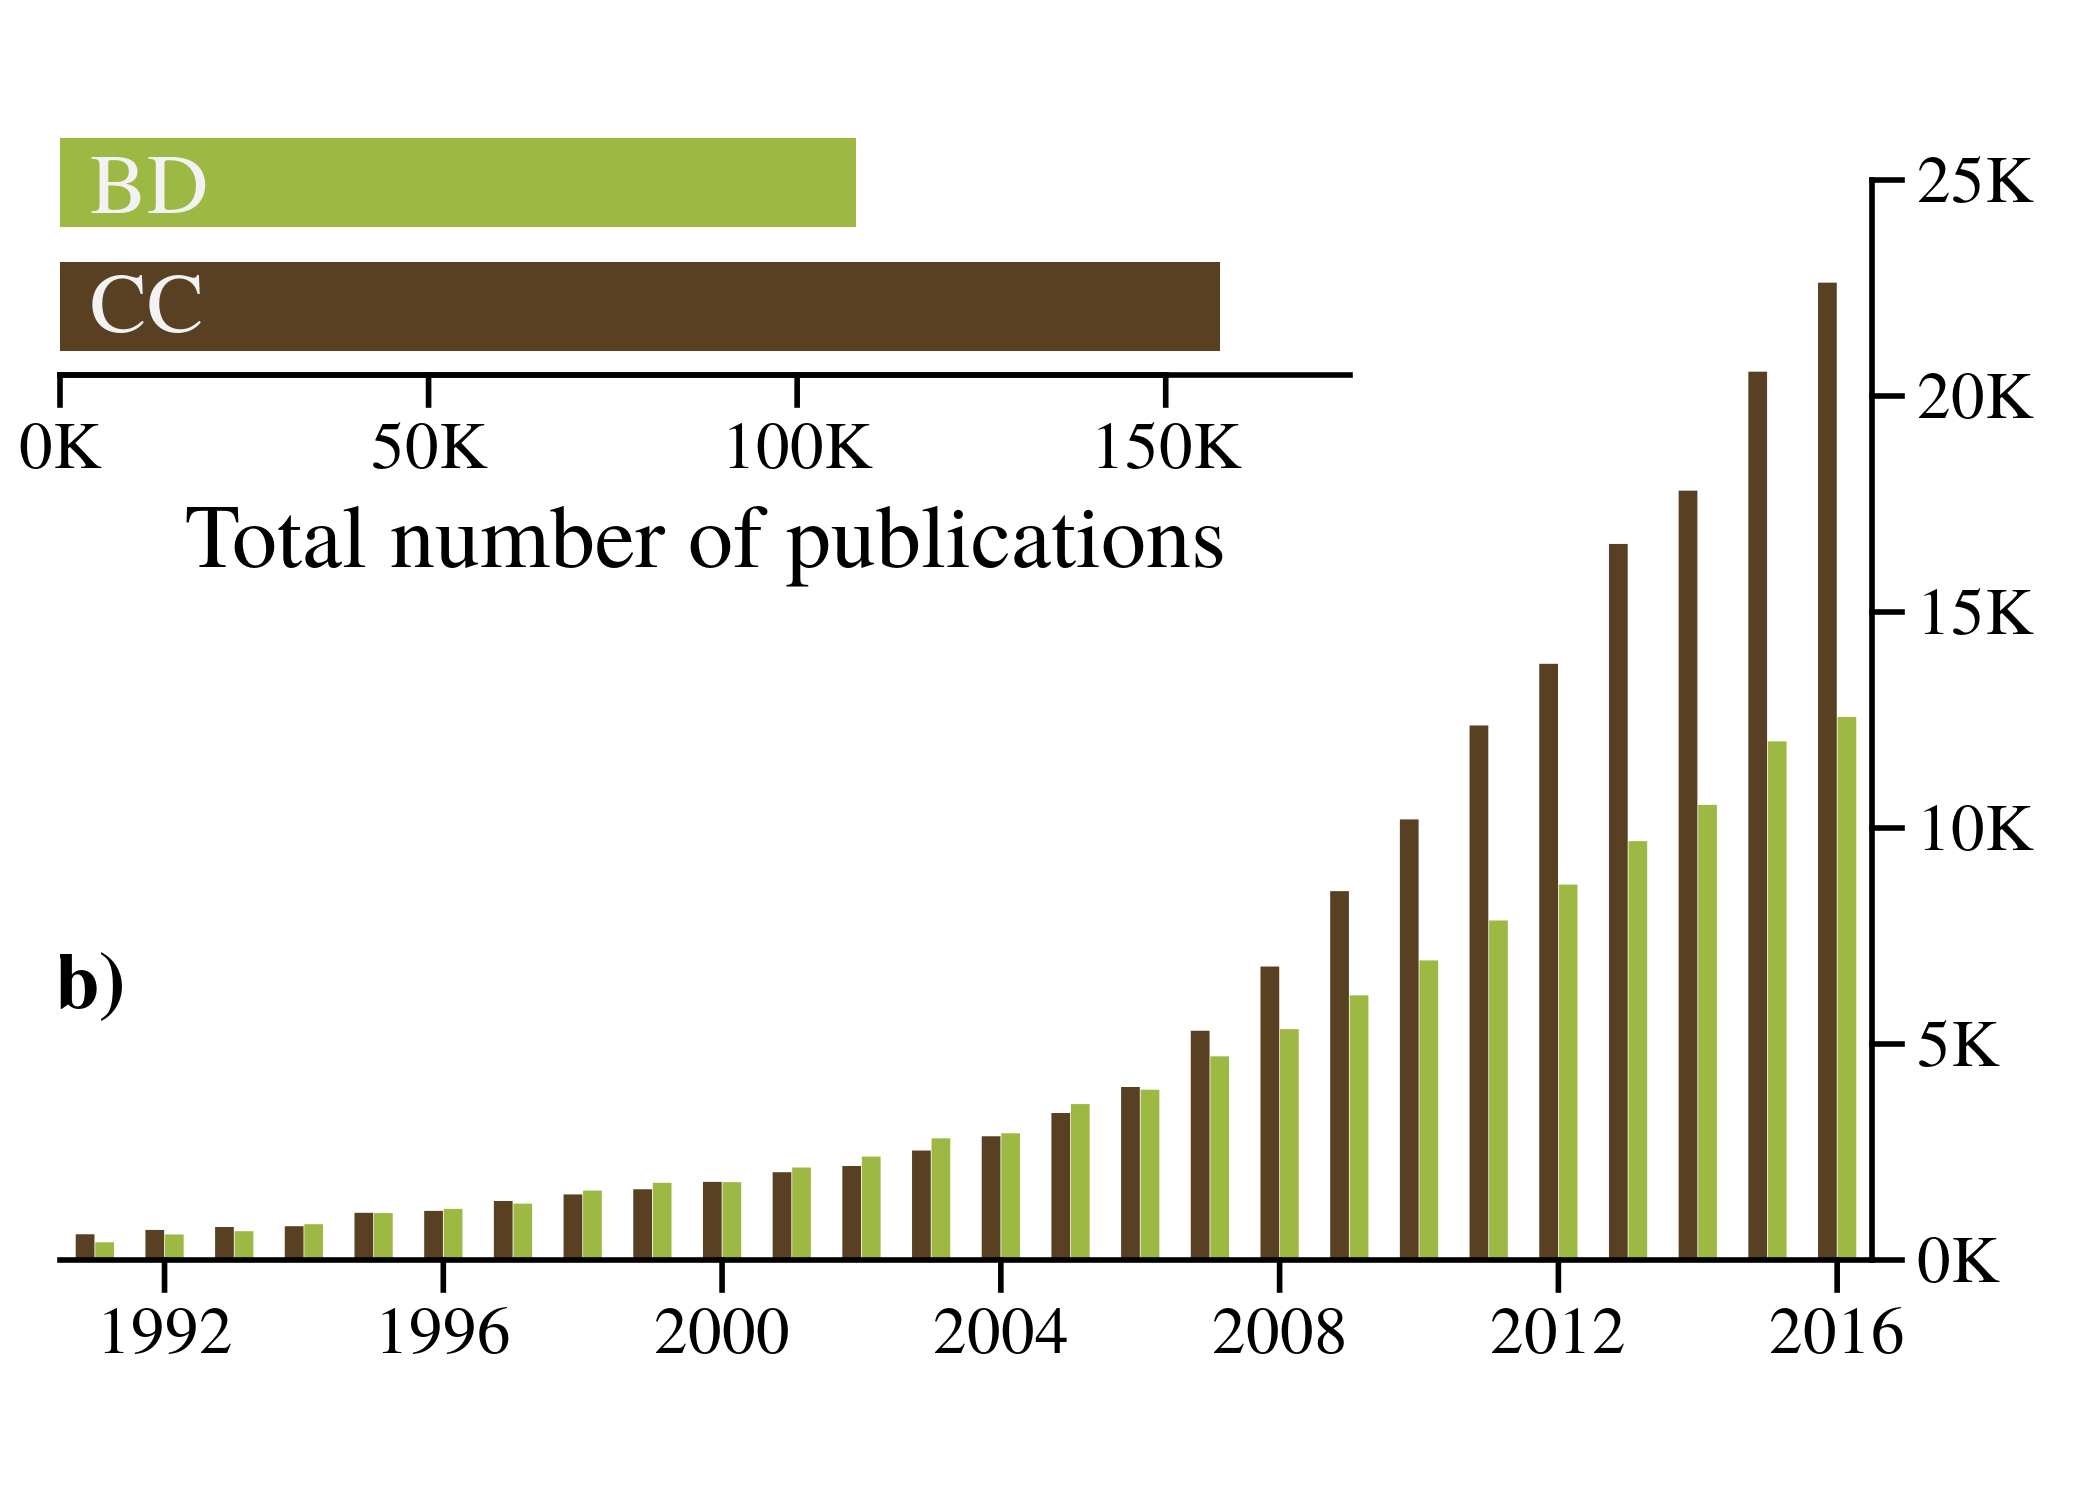
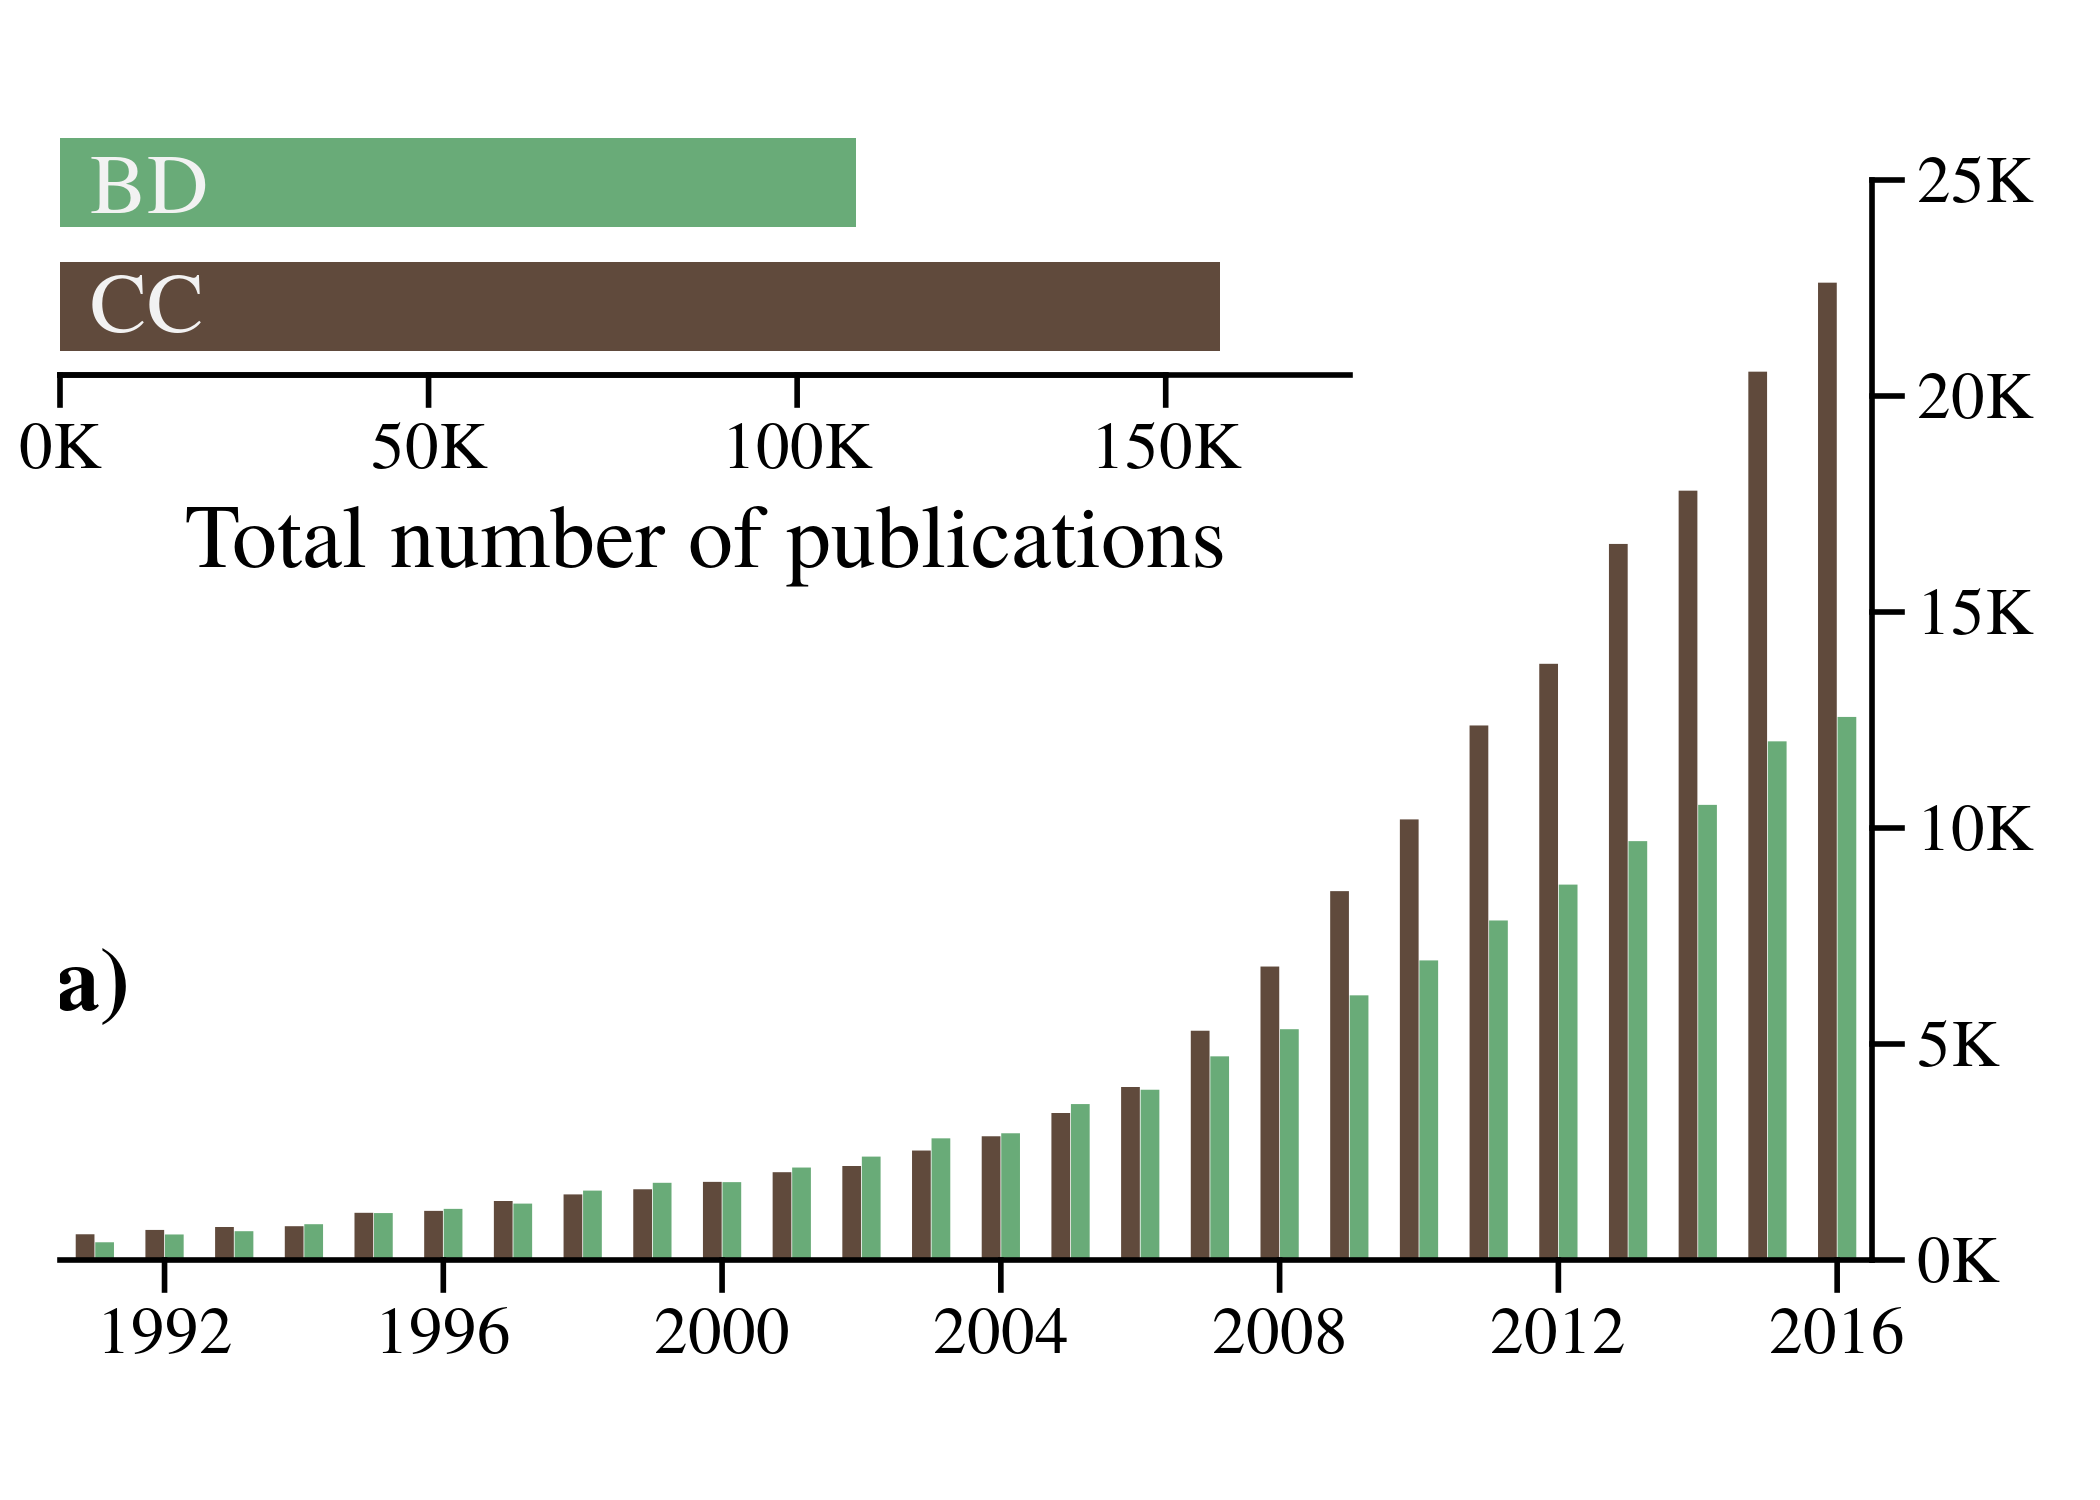
readme reviewed

Changed region(s): [[0.031, 0.184, 0.8976, 0.8587], [0.031, 0.092, 0.5881, 0.2453], [0.031, 0.644, 0.0619, 0.6747]]

diff --git a/README.md b/README.md
@@ -8,12 +8,12 @@ biodiversity coverage in the media* by Legagneux *et al.* DOI: 2BAdded.
 
 We have used a standard R package to:
 
-  1- efficiently assess the quality of our code (here we simply use `R CMD check`);
+  1- efficiently assess the quality of our code (here we simply used `R CMD check`);
 
-  2- readily share our code (see installation section).
+  2- readily share our code (see installation section below).
 
 We however acknowledge that despite the form of a standard R package, the code
-presented is more a organized script that a package (*i.e.* functions included
+presented is more a organized script than a package (*i.e.* functions included
 are not general).
 
 ## Current status
@@ -22,7 +22,7 @@ are not general).
 [![Build status](https://ci.appveyor.com/api/projects/status/qh4ntjow6tcho9oh/branch/master?svg=true)](https://ci.appveyor.com/project/KevCaz/burninghouse/branch/master)
 
 
-## Abstract of the paper
+## Abstract of the article
 
 > Scientists, policy makers and journalists are three key, interconnected players involved in prioritizing and implementing solutions to mitigate the consequences of anthropogenic pressures on the environment. We extensively scrutinized the scientific literature, research funding and press articles from the USA, Canada and United Kingdom addressing climate change and biodiversity issues between 1991 and 2016. We found that media coverage of climate change was up to eight times greater compared to biodiversity. This discrepancy could not be explained by different scientific output between the two issues. Moreover, climate change media coverage was often related to specific events whereas no such indication of a connection was found in the case of biodiversity. An international communication strategy is deeply required to raise public awareness on biodiversity issues, which in turn could provide rewards both in terms of increased research funding and discoveries.
 
@@ -31,7 +31,7 @@ are not general).
 
 ## Installation
 
-The easiest way to install this package is to use the [devtools](https://cran.r-project.org/web/packages/devtools/index.html)
+The easiest way is to use the [devtools](https://cran.r-project.org/web/packages/devtools/index.html)
 R package. Once installed, use the following commands in your favorite R console:
 
 ```r
@@ -44,28 +44,52 @@ install_github('KevCaz/burningHouse')
 
 ## Data
 
-We collect data and store them as data frame. Below is the list of data frames
-available:
+We collected data, stored them as data frames and listed them below:
 
 - **events**: international events reported on figure 2 (see below);  
 - **fundingsUSCA**: fundings time series (yearly frequency);  
-- **newsPaper**: number of articles in newspapers time series (yearly frequency);
-- **newsNames**: names of the news papers included in the study;    
-- **sciPaper**: number of articles in newspapers time series (yearly frequency);    
+- **newsPaper**: number of articles in the newspapers' time series (yearly frequency);
+- **newsNames**: names of the newspapers included in the study;    
+- **sciPaper**: time series of scientific articles (yearly frequency);    
 - **sciNames**: number of scientific paper we retrieved per journal title.
 
-To manipulate these data frames, call the `data()` function, for instance:
+To manipulate these data frames, the user should first call the `data()`
+function like so:
 
 ```r
-data(titles)
+data(newsNames)
 ```
 
-For each dataset, details are provided in the documentation associated you can
-access with `?` or `help()`:
+The data frame is then usable, for instance:
+
+```r
+knitr::kable(newsNames)
+```
+
+yields:
+
+|country |name                    |
+|:-------|:-----------------------|
+|Canada  |The Globe and Mail      |
+|Canada  |National Post           |
+|Canada  |The Toronto Star        |
+|Canada  |Winnipeg Free Press     |
+|USA     |The New York Times      |
+|USA     |USA Today               |
+|USA     |The Wall Street Journal |
+|USA     |The Washington Post     |
+|UK      |Financial Times         |
+|UK      |The Guardian            |
+|UK      |The Independent         |
+|UK      |The Times               |
+
+
+Also for each dataset, details are provided in the documentation associated. To
+access this documentation the user can either use `?` or `help()`:
 
 
 ```r
-?titles
+?newsNames
 ```
 
 
@@ -74,8 +98,9 @@ access with `?` or `help()`:
 ## Figures
 
 Creating the figures below required to 1- collect data and 2- do a peaks
-detection analysis. Data are available as data frames and the peaks detection
-analysis is presented as a example of the `detectPeaks()` function we used.
+detection analysis. Data are available as data frames (listed above) and the
+peaks detection analysis is presented as a example of the `detectPeaks()`
+function we used.
 
 
 ### Figure 1a
@@ -86,7 +111,8 @@ grDevices::png('inst/fig/ms-figure1a.png', height = 5, width = 7, res = 300, uni
   figure1a(
     sciPapers$year,
     sciPapers$records_CC,
-    sciPapers$records_BD
+    sciPapers$records_BD,
+    col1 = "#604a3c", col2 = "#69ab78"
   )
 grDevices::dev.off()
 ```
@@ -125,6 +151,4 @@ grDevices::dev.off()
 
 ## To do
 
-- [ ] review doc of the package.
-- [ ] add the DOI of the paper.
-- [ ] use Zenodo for the repo.
+- [ ] add the DOI of the paper and a DOI to the code (Zenodo).
